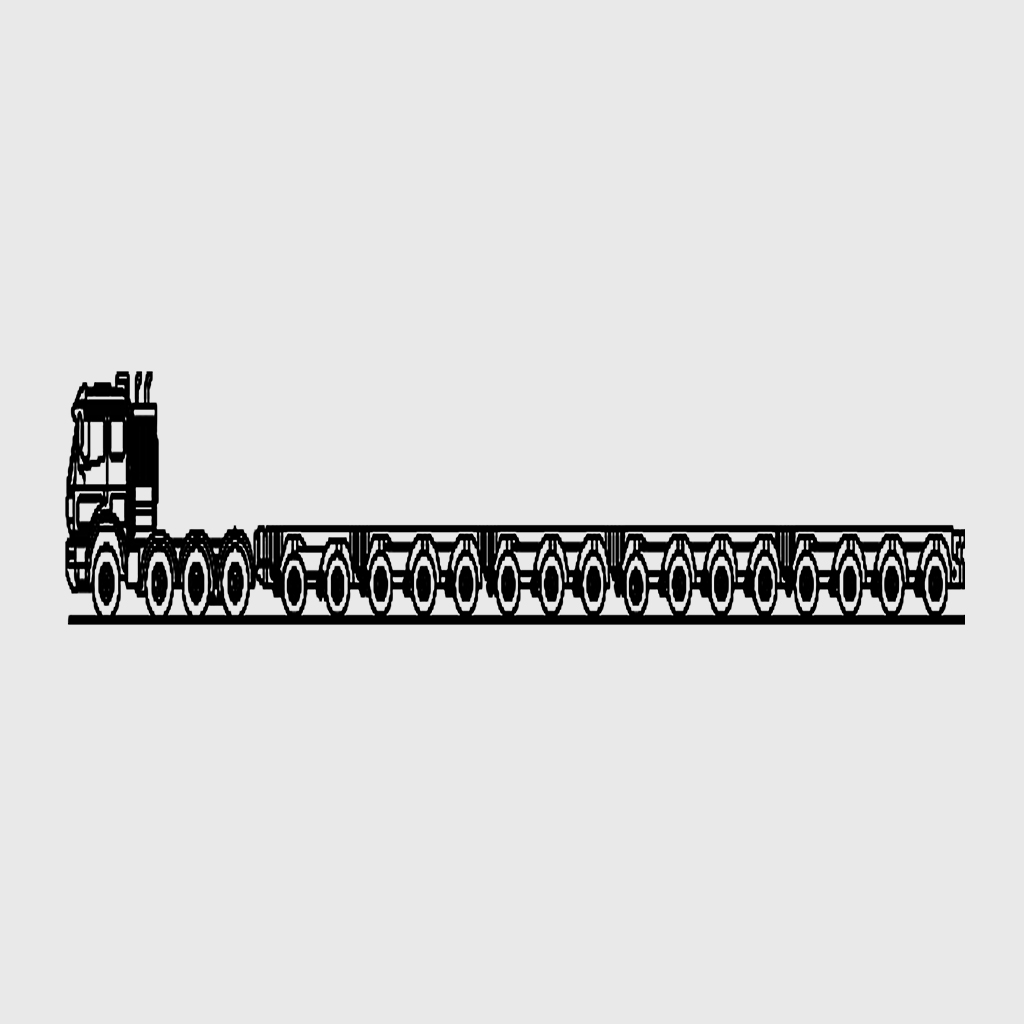
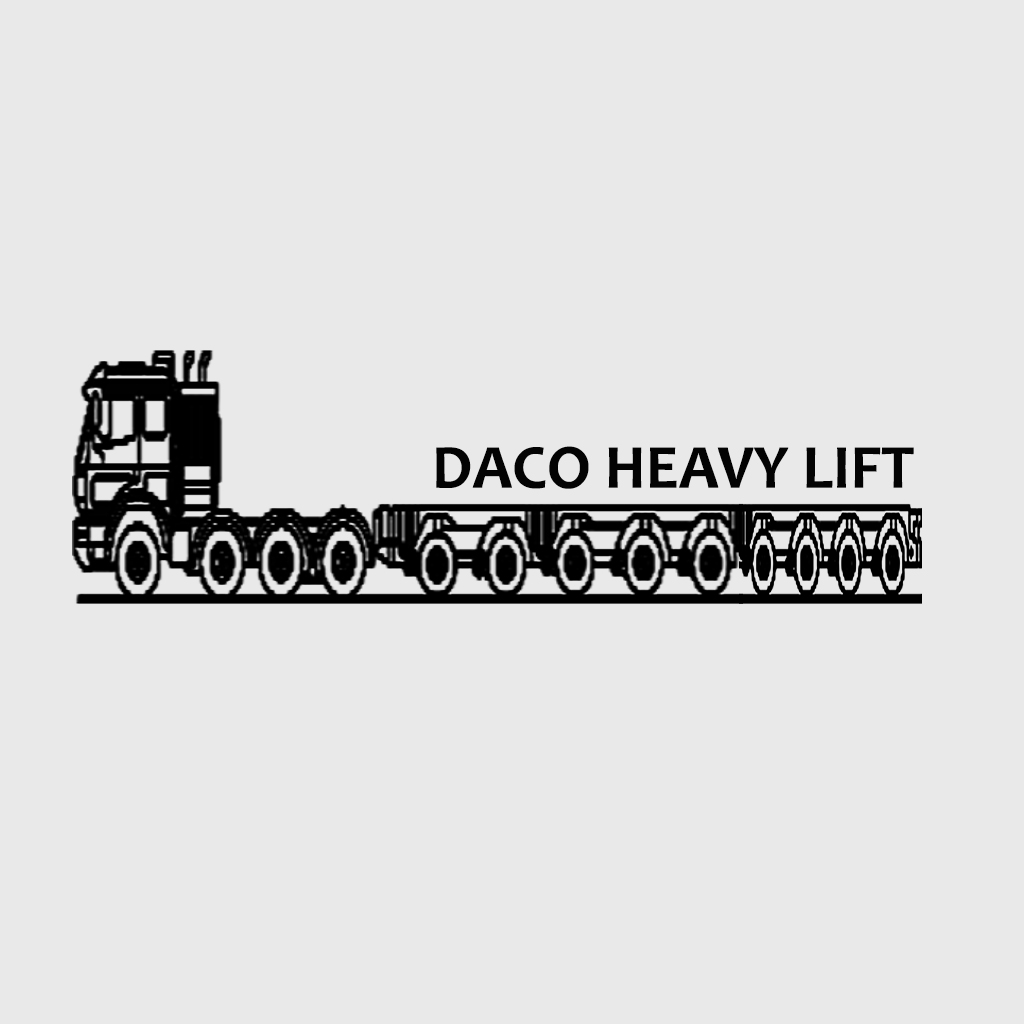
Se agrego link daco heavy y modificacion de iconos

Changed region(s): [[0.0625, 0.3438, 0.9688, 0.625]]

diff --git a/es/index.php b/es/index.php
@@ -280,15 +280,34 @@
 				
       		<!-- start: Row -->
       		<div class="row-fluid">
+      		
+      		<div class="span1"></div>
+      		<style>
+
+				/* Definimos el color inicial */
+
+				.cambioColor {color:#f5f7f8;}
+
+				/* Definimos el color al pasar el mouse por encima */
+
+				.cambioColor:hover {color:#3f9dd6;}
+
+			</style>
+      		
 	
         		<div class="span2">
           			<div class="icons-box">
 						<img src="img/servicios/barco2.jpg" class="img-circle" alt="cinque terre" width="180" height="140">
-						<h3>Marítimo</h3>
-						<p>
-							Lorem ipsum dolor sit amet, consectetuer adipiscing elit, sed diam nonummy nibh euismod tincidunt ut laoreet dolore magna aliquam erat volutpat.
-						</p>
-						<div class="clearfi"></div>
+							<div class="cambioColor">
+								<h3> Marítimo</h3>
+														
+						    	<div align="justify">
+									Lorem ipsum dolor sit amet, consectetuer adipiscing elit, sed diam nonummy nibh euismod tincidunt ut laoreet dolore magna aliquam erat volutpat.
+								</div>
+							</div>		
+							
+							
+						<div class="clearfix"></div>
 						
 					</div>
         		</div>
@@ -296,39 +315,49 @@
         		<div class="span2">
           			<div class="icons-box">
 						<img src="img/servicios/avion2.jpg" class="img-circle" class="cicletag"  width="180" height="140">
-						<h3>Aéreo</h3>
-						<p>
-							Lorem ipsum dolor sit amet, consectetuer adipiscing elit, sed diam nonummy nibh euismod tincidunt ut laoreet dolore magna aliquam erat volutpat.
-						</p>
+						<div class="cambioColor">
+								<h3> Aéreo</h3>
+														
+						    	<div align="justify">
+									Lorem ipsum dolor sit amet, consectetuer adipiscing elit, sed diam nonummy nibh euismod tincidunt ut laoreet dolore magna aliquam erat volutpat.
+								</div>
+							</div>		
 						<div class="clearfix"></div>
 					</div>
         		</div>
 
-        		<div class="span2">
-          			<div class="icons-box">
-						<img src="img/servicios/tren2.jpg" class="img-circle" alt="cinque terre" width="180" height="140">
-						<h3>Terrestre</h3>
-						<p>
-							Lorem ipsum dolor sit amet, consectetuer adipiscing elit, sed diam nonummy nibh euismod tincidunt ut laoreet dolore magna aliquam erat volutpat.
-						</p>
-						<div class="clearfix"></div>
-					</div>
-        		</div>
-        		<div class="row-fluid">
-	
         		<div class="span2">
           			<div class="icons-box">
 						<img src="img/servicios/camion2.jpg" class="img-circle" alt="cinque terre" width="180" height="140">
-						<h3>Servicio de Transporte Local</h3>
-						<p>
-							Lorem ipsum dolor sit amet, consectetuer adipiscing elit, sed diam nonummy nibh euismod tincidunt ut laoreet dolore magna aliquam erat volutpat.
-						</p>
-						<div class="clearfi"></div>
+						<div class="cambioColor">
+								<h3> Terrestre</h3>
+														
+						    	<div align="justify">
+									Lorem ipsum dolor sit amet, consectetuer adipiscing elit, sed diam nonummy nibh euismod tincidunt ut laoreet dolore magna aliquam erat volutpat.
+								</div>
+							</div>		
+						<div class="clearfix"></div>
+					</div>
+        		</div>
+        		<!--<div class="row-fluid">-->
+	
+        		<div class="span2">
+          			<div class="icons-box">
+						<img src="img/servicios/camion3.jpg" class="img-circle" alt="cinque terre" width="180" height="140">
+						<div class="cambioColor">
+								<h3> Transporte Local</h3>
+														
+						    	<div align="justify">
+									Contamos con equipos propios para realizar el traslado de la mercaderia hasta la puerta de la bodega del cliente.
+								</div>
+							</div>		
+						<div class="clearfix"></div>
 						
 					</div>
         		</div>
+        		<!--<div class="row-fluid">-->
 
-        		<div class="span2">
+        		<!--<div class="span2">
           			<div class="icons-box">
 						<img src="img/servicios/grua2.jpg" class="img-circle" class="cicletag"  width="180" height="140">
 						<h3>Grúas Telescopicas</h3>
@@ -337,21 +366,27 @@
 						</p>
 						<div class="clearfix"></div>
 					</div>
-        		</div>
+        		</div>-->
 
         		<div class="span2">
           			<div class="icons-box">
 						<img src="img/servicios/modular2.jpg" class="img-circle" alt="cinque terre" width="180" height="140">
-						<h3>Equipo para carga Extradimensionada</h3>
-						<p>
-							Lorem ipsum dolor sit amet, consectetuer adipiscing elit, sed diam nonummy nibh euismod tincidunt ut laoreet dolore magna aliquam erat volutpat.
-						</p>
+						<div class="cambioColor">
+							<h3>Carga Sobre Dimensionada</h3>
+						
+						    <div align="justify">
+						 		Dacotrans con el apoyo de Daco Heavy Lift no hay carga demasiado grande que no se pueda manejar, haga click al link para más información
+						 		<a href="http://www.dacoheavylift.com/" target="_blank">dacoheavylift.com</a>
+						 	</div>
+						</div>
 						<div class="clearfix"></div>
 					</div>
         		</div>
+        		
 
       		
 			<!-- end: Row -->
+			<div class="span1"></div>
 			
 			<div class="clearfix"></div>
 			<hr class="clean">					
